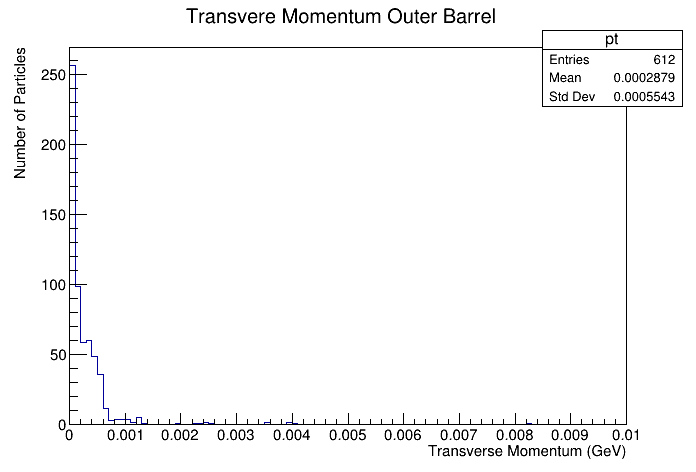
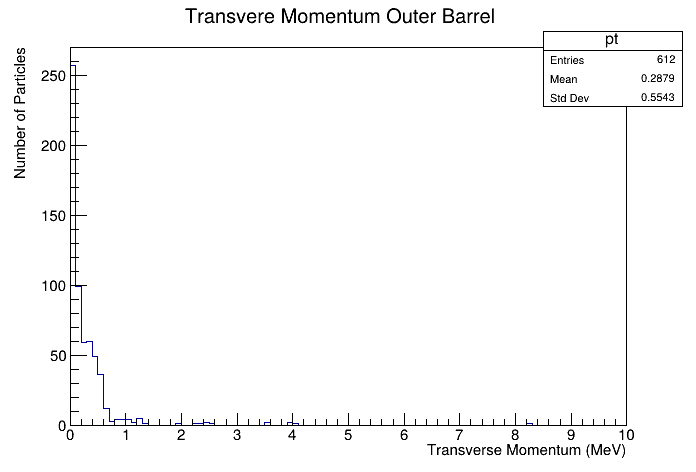
changed scaling on transverse momentum plots

Changed region(s): [[0.0603, 0.1186, 0.9353, 0.9788], [0.7543, 0.0593, 0.9655, 0.2373], [0.2716, 0.0, 0.7241, 0.0593]]

diff --git a/python/transverse_momentum_plotter.py b/python/transverse_momentum_plotter.py
@@ -8,10 +8,10 @@ input_file_path = "/eos/experiment/fcc/users/b/brfranco/background_files/guineaP
 podio_reader = root_io.Reader(input_file_path)
 
 events = podio_reader.get("events")
-collection = ["MCParticles", "Monte Carlo", "mc"]
+# collection = ["MCParticles", "Monte Carlo", "mc"]
 # collection = ["VTXIBCollection", "Inner Barrel", "ib"]
 # collection = ["VTXOBCollection", "Outer Barrel", "ob"]
-# collection = ["VTXDCollection", "Disk", "disk"]
+collection = ["VTXDCollection", "Disk", "disk"]
 
 pt_gt_5_count = 0
 
@@ -26,8 +26,8 @@ for event in events:
     #     continue
 
     for particle in particles:
-        if particle.getGeneratorStatus() != 1:
-            continue
+        # if particle.getGeneratorStatus() != 1:
+        #     continue
         p = np.sqrt(particle.getMomentum().x**2 + particle.getMomentum().y**2)
 
         # if p < 0.1: # eliminate non electron hits
